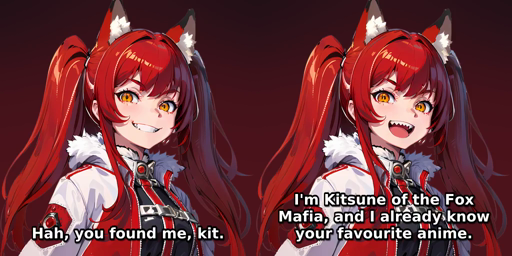
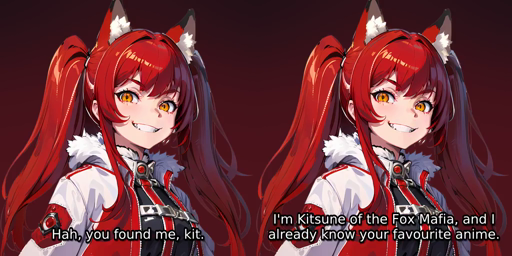
Subtitles: a touch smaller, regular weight
Claude-Session: https://claude.ai/code/session_01Y2RqV6SvJzXgv4pSTcAWPR

diff --git a/src/kitsune/avatar/renderer.py b/src/kitsune/avatar/renderer.py
@@ -36,7 +36,7 @@ from .subtitles import SrtEntry, escape_filter_path, get_duration_ffprobe, write
 
 #: libass style for the burned-in subtitles (sizes are in a 288-line script space, so they scale with the video)
 SUBTITLE_STYLE = (
-    "FontName=DejaVu Sans,FontSize=19,Bold=1,PrimaryColour=&H00FFFFFF,OutlineColour=&H00000000,"
+    "FontName=DejaVu Sans,FontSize=17,Bold=0,PrimaryColour=&H00FFFFFF,OutlineColour=&H00000000,"
     "BackColour=&H80000000,BorderStyle=1,Outline=2,Shadow=1,Alignment=2,MarginV=16"
 )
 
